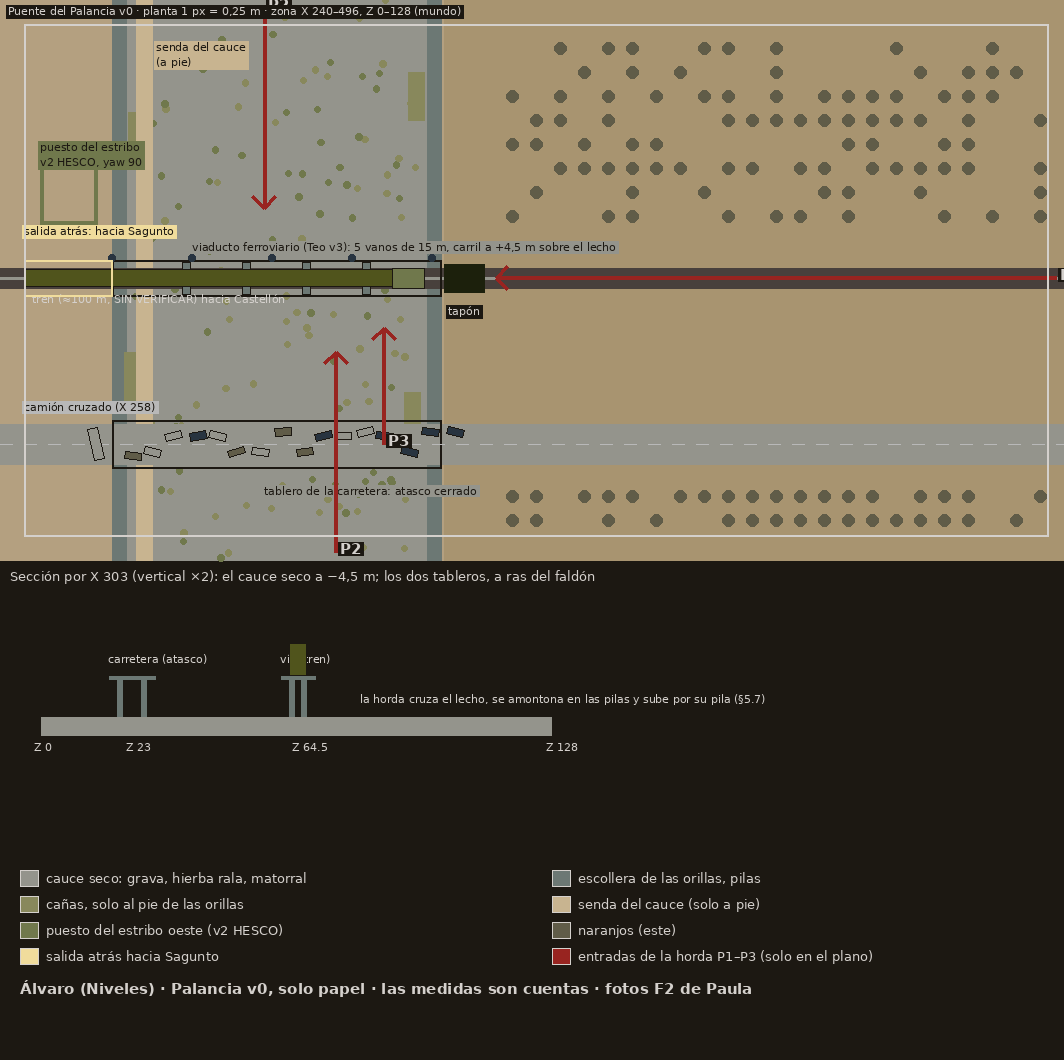
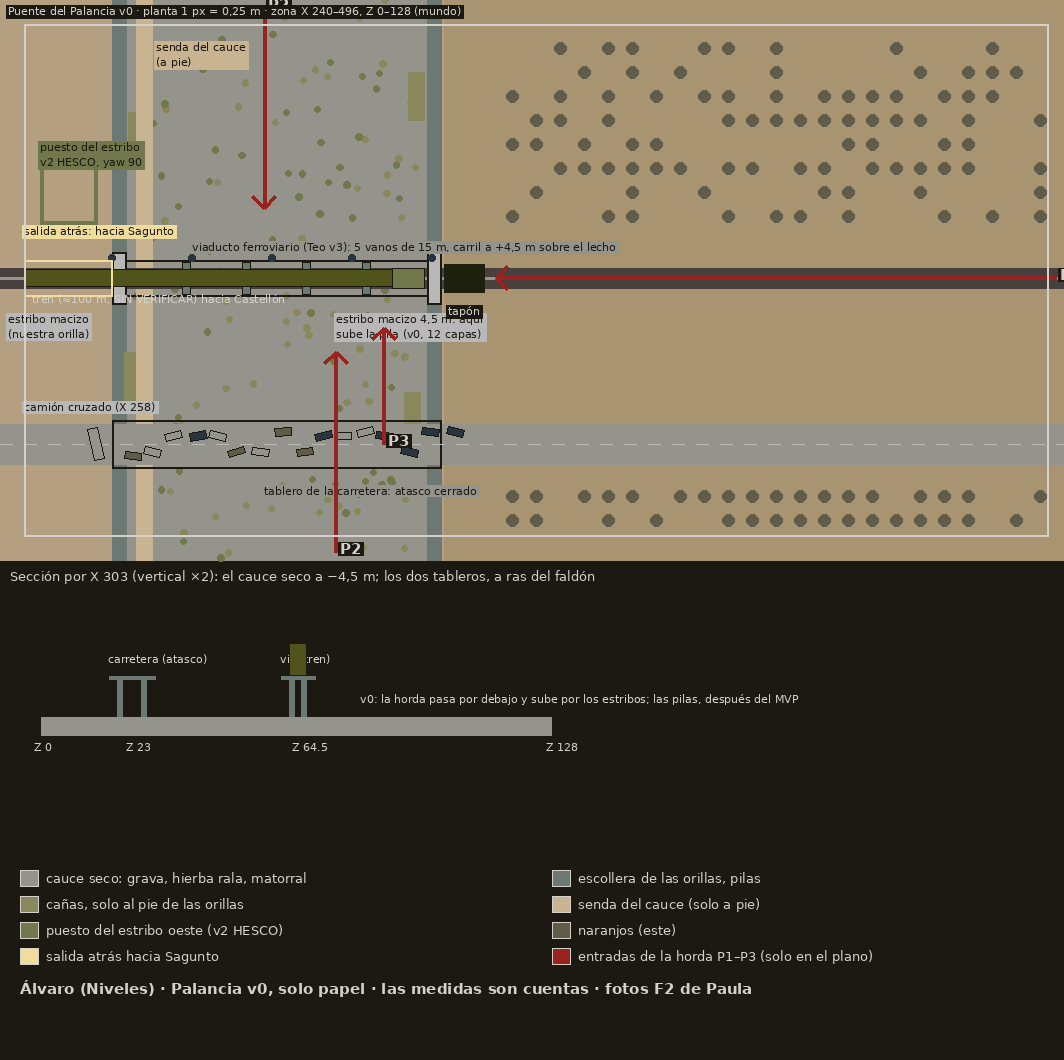
Niveles: Palancia v0 con estribos macizos y Nules v0
Claude-Session: https://claude.ai/code/session_01A4RyjScdBuNc7GbjKkppYP

diff --git a/docs/niveles/herramientas/plano_nules_v0.py b/docs/niveles/herramientas/plano_nules_v0.py
@@ -1,0 +1,62 @@
+# Plano v0 de Nules (Álvaro, 7-nov): emplazamiento fundable (D-N18, D-N49). Coordenadas locales de la zona 256 × 128 m, vía en Z 64,5.
+import numpy as np, random
+from PIL import Image, ImageDraw, ImageFont
+S=4; X0,X1,Z0,Z1=-6,262,-6,134
+W=(X1-X0)*S; H=(Z1-Z0)*S; LEG=230
+im=Image.new("RGB",(W,H+LEG),"#1c1812"); d=ImageDraw.Draw(im)
+Fp="/usr/share/fonts/truetype/dejavu/DejaVuSans.ttf"; Fb="/usr/share/fonts/truetype/dejavu/DejaVuSans-Bold.ttf"
+F=ImageFont.truetype(Fp,13); FS=ImageFont.truetype(Fp,11); FB=ImageFont.truetype(Fb,15)
+def P(x,z): return ((x-X0)*S,(Z1-z)*S)
+def R(x0,z0,x1,z1,fill=None,outline=None,w=1): d.rectangle([P(x0,z1),P(x1,z0)],fill=fill,outline=outline,width=w)
+def L(pts,c,w=2): d.line([P(*p) for p in pts],fill=c,width=w)
+def T(x,z,s,c="#1c1812",f=None,bg=None):
+    f=f or F; p=P(x,z)
+    if bg: bb=d.multiline_textbbox(p,s,font=f); d.rectangle([bb[0]-2,bb[1]-1,bb[2]+2,bb[3]+1],fill=bg)
+    d.multiline_text(p,s,fill=c,font=f)
+random.seed(11)
+R(X0,Z0,X1,Z1,fill="#a89470")
+# naranjal en hileras (víveres), con calles de riego
+def naranjal(x0,z0,x1,z1):
+    for x in np.arange(x0,x1,5):
+        for z in np.arange(z0,z1,5):
+            if random.random()<0.9: d.ellipse([P(x-1.6,z+1.6),P(x+1.6,z-1.6)],fill="#605c48")
+naranjal(4,92,250,126); naranjal(4,4,70,50); naranjal(186,4,252,50)
+L([(X0,100),(X1,100)],"#506878",3); T(150,105,"acequia (agua de riego)","#d4d0cc",FS,"#1c1812")
+R(196,96,204,104,fill="#a86c50",outline="#1c1812"); T(205,96,"caseta del pozo y motor de riego","#1c1812",FS,"#c4ac84")
+# vía, andén, edificio de viajeros abandonado
+R(X0,62,X1,67,fill="#48403c"); L([(X0,64.5),(X1,64.5)],"#94948c",3)
+for x in range(0,257,40): d.ellipse([P(x-0.8,70.3),P(x+0.8,68.7)],fill="#283440")
+R(100,67.5,160,71.5,fill="#94948c",outline="#1c1812"); T(101,73,"andén 60 m","#1c1812",FS,"#94948c")
+R(121,74,139,82,fill="#b4a080",outline="#1c1812"); T(122,81,"Viajeros\n(abandonado)","#1c1812",FS)
+# cruce de caminos: camino de la Vilavella (N) y avenida de la Estación (S), paso a nivel en X 80
+R(76,Z0,84,Z1,fill="#94948c"); T(86,126,"camino de la Vilavella (N)","#1c1812",FS,"#94948c"); T(86,2,"avenida de la Estación → Nules (S)","#1c1812",FS,"#94948c")
+R(75,60,85,69,outline="#d4d0cc",w=2); T(56,56,"paso a nivel\n(sin barreras)","#1c1812",FS,"#d4d0cc")
+R(84,28,160,34,fill="#c8b490"); T(100,26,"ramal de la cooperativa","#1c1812",FS,"#c8b490")
+# cooperativa citrícola (almacén de naranjas con muelle)
+R(140,34,176,52,fill="#a86c50",outline="#1c1812"); R(140,52,176,55,fill="#94948c"); T(142,48,"Cooperativa citrícola\n(víveres)","#1c1812",FS)
+# trazado sugerido de 150 m de HESCO (44 × 31 m) a ≤ 60 m del andén, con dos puertas de vía y una de vehículos
+R(108,56,152,87,outline="#70784c",w=6)
+L([(108,62),(108,67)],"#7c3c18",7); L([(152,62),(152,67)],"#7c3c18",7); L([(126,56),(134,56)],"#f0dc9c",6)
+T(153,90,"trazado sugerido: 150 m de HESCO\n(44 × 31 m), puertas de vía O/E\ny de vehículos al sur","#1c1812",FS,"#70784c")
+d.ellipse([P(130-60,69.5+60),P(130+60,69.5-60)],outline="#d4d0cc",width=1); T(185,123,"60 m del centro del andén (D-N44)","#d4d0cc",FS,"#1c1812")
+# tren al fundar
+R(96,62.6,166,66.4,fill="#50541c",outline="#1c1812"); T(98,61,"tren de fundación: 30 u y 12 personas","#d4d0cc",FS)
+# sitios
+def sitio(x,z,n,txt,dx,dz):
+    d.ellipse([P(x-3.2,z+3.2),P(x+3.2,z-3.2)],outline="#d4d0cc",width=3); T(x-2.4,z+2.2,n,"#d4d0cc",FB); T(x+dx,z+dz,txt,"#d4d0cc",F,"#1c1812")
+sitio(130,78,"N1","N1 Estación (130; 78)",-14,14); sitio(158,44,"N2","N2 Cooperativa (158; 44)",4,-2); sitio(80,64.5,"N3","N3 Paso a nivel (80; 64,5)",-62,-8)
+def flecha(x0,z0,x1,z1,lab):
+    L([(x0,z0),(x1,z1)],"#982420",4); a=np.arctan2(z1-z0,x1-x0)
+    for s in (2.6,-2.6): L([(x1,z1),(x1-4*np.cos(a+s*0.3),z1-4*np.sin(a+s*0.3))],"#982420",4)
+    T(x0+1,z0+3,lab,"#d4d0cc",FB,"#1c1812")
+flecha(-4,64.5,40,64.5,"Na"); flecha(260,64.5,215,64.5,"Nb"); flecha(40,131,40,95,"Nc"); flecha(230,131,230,95,"Nc"); flecha(110,-4,110,22,"Nd")
+R(0,0,256,128,outline="#d4d0cc",w=2)
+T(-4,133,"Nules v0 · planta 4 px/m · zona local 256 × 128 m · solo papel","#d4d0cc",FS,"#1c1812")
+ly=H+10
+items=[("#605c48","naranjal (la producción de víveres)"),("#506878","acequia y pozo: el agua que hace fundable el sitio"),("#94948c","caminos asfaltados y andén"),("#c8b490","ramal de tierra a la cooperativa"),("#70784c","trazado sugerido de HESCO (no se construye solo)"),("#f0dc9c","puerta de vehículos del trazado"),("#7c3c18","puertas de vía del trazado"),("#982420","entradas de la horda Na–Nd (solo en el plano)")]
+for i,(c,t) in enumerate(items):
+    x=20+(i%2)*W//2; y=ly+(i//2)*26
+    d.rectangle([x,y,x+18,y+16],fill=c,outline="#d4d0cc"); d.text((x+26,y),t,fill="#d4d0cc",font=F)
+d.text((20,ly+112),"Álvaro (Niveles) · Nules v0 · sin fotos de Nules todavía: geografía genérica de la Plana, SIN VERIFICAR",fill="#d4d0cc",font=FB)
+d.text((20,ly+138),"Llano, agua y cruce de caminos: las tres razones del §9b del GDD para que un emplazamiento sea fundable, dibujadas en el sitio.",fill="#d4d0cc",font=F)
+im.save("/mnt/project-files/docs/niveles/nules_plano_v0.png"); print(im.size)

diff --git a/docs/niveles/herramientas/plano_palancia_v0.py b/docs/niveles/herramientas/plano_palancia_v0.py
@@ -40,6 +40,9 @@ R(268,Z0,272,Z1,fill="#c8b490"); T(273,124,"senda del cauce\n(a pie)","#1c1812",
 L([(X0,64.5),(X1,64.5)],"#94948c",3); R(X0,62,X1,67,fill="#48403c"); L([(X0,64.5),(X1,64.5)],"#94948c",3)
 R(262,60,344.4,69,outline="#1c1812",w=2)
 for x in (280.6,295.6,310.6,325.6): R(x-1,60.5,x+1,68.5,fill="#6c7874",outline="#1c1812")
+for x0 in (262,340.8): R(x0,58,x0+3.6,71,fill="#b8b8b8",outline="#1c1812",w=2)
+T(318,56,"estribo macizo 4,5 m: aquí\nsube la pila (v0, 12 capas)","#1c1812",FS,"#b8b8b8")
+T(236,56,"estribo macizo\n(nuestra orilla)","#1c1812",FS,"#b8b8b8")
 T(282,74,"viaducto ferroviario (Teo v3): 5 vanos de 15 m, carril a +4,5 m sobre el lecho","#1c1812",FS,"#94948c")
 for x in range(262,346,20): d.ellipse([P(x-0.8,70.3),P(x+0.8,68.7)],fill="#283440")   # postes de catenaria
 # carretera vieja y su tablero paralelo (Z 23), atasco y camión cruzado
@@ -74,7 +77,7 @@ for z0,z1,lab in ((17,29,"carretera (atasco)"),(60,69,"vía (tren)")):
     d.rectangle([Q(z0,0.6),Q(z1,0)],fill="#6c7874",outline="#1c1812"); p=Q(z0,3.5); d.text(p,lab,fill="#d4d0cc",font=FS)
 d.rectangle([Q(62.3,4.6),Q(66.7,0.6)],fill="#50541c",outline="#1c1812")
 for z in (20,26,63,66): d.rectangle([Q(z-0.7,0),Q(z+0.7,-4.5)],fill="#6c7874")
-d.text(Q(80,-1.5),"la horda cruza el lecho, se amontona en las pilas y sube por su pila (§5.7)",fill="#d4d0cc",font=FS)
+d.text(Q(80,-1.5),"v0: la horda pasa por debajo y sube por los estribos; las pilas, después del MVP",fill="#d4d0cc",font=FS)
 for z in (0,23,64.5,128): p=Q(z,-7); d.text((p[0]-6,p[1]+4),f"Z {z}",fill="#d4d0cc",font=FS)
 ly=H+SEC+10
 items=[("#94948c","cauce seco: grava, hierba rala, matorral"),("#6c7874","escollera de las orillas, pilas"),("#88885c","cañas, solo al pie de las orillas"),("#c8b490","senda del cauce (solo a pie)"),("#70784c","puesto del estribo oeste (v2 HESCO)"),("#605c48","naranjos (este)"),("#f0dc9c","salida atrás hacia Sagunto"),("#982420","entradas de la horda P1–P3 (solo en el plano)")]

diff --git a/docs/niveles/nules-nivel.md b/docs/niveles/nules-nivel.md
@@ -1,0 +1,51 @@
+# Nules · emplazamiento fundable v0 (Álvaro, 7-nov, solo papel)
+
+Es el único emplazamiento fundable de la demo (D-N18, D-N49; `diseno-hito5.md` §4). Se funda el día 3 con un tren parado que lleve 30 u y 12 personas, sin horda encima (densidad < 500), y produce víveres de la huerta. Uso la plantilla del desmonte: cada cosa tiene que tener una razón de estar ahí. Plano: `nules_plano_v0.png`; script: `herramientas/plano_nules_v0.py`; dato: `mapa_nules_carreteras_v0.json`. Para después del MVP, sin código.
+
+## 0. Conclusión
+El GDD (§9b) dice que los emplazamientos se eligen por **terreno llano, agua y cruce de caminos**. Nules v0 dibuja esas tres razones en el sitio:
+- la huerta llana de naranjos de la Plana;
+- una acequia con su pozo y su motor de riego;
+- el cruce del camino de la Vilavella con la avenida de la Estación, en un paso a nivel.
+
+Además, lo que produce tiene edificio: la **cooperativa citrícola** junto a la vía. Lo que se funda es la estación vieja, que está abandonada. Por eso el jugador no empieza de cero: hay andén y un edificio que sirve de primer refugio para las 12 personas.
+
+**Aviso de realidad:** Nules sí tiene estación real en la línea de la costa (Nules–La Vilavella, SIN VERIFICAR con fuente). En el juego se lee como «estación abandonada que se vuelve a abrir», no como un descampado. Paula todavía no tiene fotos de Nules, así que la disposición es genérica de la Plana y va **SIN VERIFICAR** entera.
+
+## 1. Disposición (coordenadas locales de la zona, 256 × 128 m, vía en Z 64,5)
+| Elemento | Dónde | Por qué existe | Qué hace en el juego |
+|---|---|---|---|
+| **Andén de 60 m** | X 100–160, Z 67,5–71,5 | La estación vieja | Donde para el tren de fundación (`fundar_radio_tren_mm` 5000). Es el centro de los 60 m que cuentan para la fortificación (D-N44) |
+| **Edificio de viajeros abandonado** | X 121–139, Z 74–82 | La estación vieja | Primer refugio. Sitio N1 |
+| **Cooperativa citrícola** con muelle a la vía | X 140–176, Z 34–55 | En la Plana, las cooperativas se pusieron junto a la vía para cargar la naranja | **La producción de víveres.** Sitio N2, a unos 40 m del centro del andén: entra en el perímetro de 60 m |
+| **Naranjal en hileras** cada 5 m | Norte (Z 92–126) y esquinas del sur | La huerta | Lo que se protege. Tapa la vista: la horda Nc sale de entre los árboles a menos de 30 m |
+| **Acequia y pozo con motor** | Acequia en Z 100; caseta en X 196–204 | El agua que hace fundable el sitio | Línea de lectura de noche y punto de referencia. Más adelante podría ser un objetivo (sin agua, no hay víveres) |
+| **Camino de la Vilavella y avenida de la Estación** | X 76–84, de norte a sur | El cruce de caminos | Acceso de los vehículos (D-N96) y entrada Nd desde el pueblo |
+| **Paso a nivel sin barreras** | (80; 64,5) | Lo abandonaron cuando se cerró la estación | Sitio N3: el único sitio por donde un vehículo cruza la vía |
+| **Ramal de tierra a la cooperativa** | Z 28–34, de X 84 a 160 | Para los camiones de la naranja | Habilitado: lleva los vehículos a N2 |
+
+## 2. Fortificación sugerida (lo construye el jugador; el plano solo lo propone)
+- **Trazado de 150 m de HESCO**, 44 × 31 m (X 108–152, Z 56–87), alrededor del andén y del edificio de viajeros. Es la cifra del ejemplo de la D-N44 (150 m de HESCO, una puerta, dos nidos y tres focos: 118 u). Todo queda a 60 m o menos del centro del andén.
+- Al cruzar la vía, el recinto necesita **dos puertas de vía** (oeste y este), igual que el de Sagunto, además de **una puerta de vehículos** al sur, hacia el ramal y la cooperativa. Son dos puertas más que en el ejemplo de la D-N44 (+12 u si cuestan 6 cada una). **Hugo** tiene que decir si el nivel de estación sigue saliendo el día que toca.
+- La cooperativa queda **fuera del recinto**, a 15 m de la puerta de vehículos. Es a propósito: es lo que la horda ataca y obliga a elegir entre ampliar el muro o defenderla con un puesto. Es un frente del mundo persistente (D-N96) desde el primer día.
+
+## 3. Sitios del mapa de frentes
+- **N1 Estación** (130; 78): el recinto.
+- **N2 Cooperativa** (158; 44): la producción. Puesto v2 opcional.
+- **N3 Paso a nivel** (80; 64,5): el cruce. Si cae, los vehículos se quedan a un lado de la vía.
+
+## 4. Entradas de la horda
+- **Na / Nb**: por la vía, desde Almenara (oeste) y desde Castellón (este).
+- **Nc**: desde el naranjal del norte, a corta distancia y sin verse.
+- **Nd**: por la avenida, desde el pueblo (sur). Es la entrada de los asedios grandes, porque el pueblo es donde estaba la gente.
+
+## 5. Vehículos (D-N96)
+Los vehículos llegan en el tren (D-N18: el blindado viaja en el tren y se despliega). Desde el andén salen por la puerta de vehículos al ramal. **Habilitados**: la avenida (de Z 0 al paso a nivel), el camino de la Vilavella (del paso a nivel a Z 128) y el ramal de la cooperativa.
+
+## 6. Pendiente
+- **Paula**: fotos de la estación de Nules–La Vilavella, de una cooperativa citrícola de la Plana con muelle de vía, de una acequia y de una caseta de pozo con motor.
+- **Teo** (5 variantes cada una): cooperativa (nave de ladrillo, nave de bloque con cubierta de fibrocemento, nave con marquesina, nave con torre de oficinas y nave quemada), caseta de pozo y acequia (como franja del mapa de zonas). El almacén de naranjas de Sagunto (F4) sirve de base.
+- **Hugo**: el coste de las dos puertas de vía y si el día de nivel de estación se mueve.
+- **FPS**: unos 500 naranjos. Es la zona más cara de vegetación, y hay que medirla (D-N70). Si no da, el naranjal se pinta en el mapa de zonas y solo las hileras cercanas son 3D.
+
+— Álvaro (Niveles) · [retrato](/mnt/project-files/equipo/retrato_alvaro_64_x4.png)

diff --git a/docs/niveles/palancia-nivel.md b/docs/niveles/palancia-nivel.md
@@ -9,6 +9,13 @@ Propongo dos tipos de puente:
 - **Puente alto** (el §8.3, tal cual): Jiloca y Mijares si las fotos lo confirman.
 - **Puente bajo sobre rambla** (este): la horda no llega solo por los extremos, **cruza el lecho, se amontona contra las pilas y sube al tablero por su propia pila de cuerpos** (§5.7). El lecho es un campo de tiro de 75 m de ancho y el tablero es un muro de 4,5 m. Es otra forma de jugar y sale de la foto.
 
+## 0b. Ajuste del v0 (Mak, 7-nov, a propuesta de Nacho): estribos macizos, sin código nuevo
+En la zona, un obstáculo es un segmento con altura y macizo hasta el suelo: no existe el «hueco por debajo». Una pila contra un pilar no sube al tablero; se queda debajo. Por eso, **en el v0 la horda sube por los estribos y no por las pilas**:
+- **Estribos oeste (X 262–265,6) y este (X 340,8–344,4)**, de 4,5 m y macizos, con sus aletas hasta la escollera (unos Z 58–71, 13 m de cara). Son obstáculos de la zona como el muro. La pila sube 0,35 m por capa y se trepa a la altura del obstáculo menos 0,6 m (StepUp), así que hacen falta **unas 12 capas** (cuenta de Nacho; los cuerpos que cuesta, sin medir). Una vez arriba, la horda sale a la vía en la cabeza del puente.
+- **El lecho queda libre por debajo del tablero.** Las pilas son decorado sin colisión de pila, y la horda cruza el cauce de lado a lado para llegar a los estribos.
+- **Cómo se juega:** el estribo este está pegado a la locomotora y al tapón, así que P2 y P1 se juntan ahí, que es lo peligroso. El estribo oeste está en nuestra orilla, bajo el puesto del estribo, que tira de cerca contra la pila. Los 75 m del lecho siguen siendo el campo de tiro.
+- **Después del MVP** (si Mak lo pide, Nacho calcula medio día de código y pruebas, más lo de Marcos en la zona): un tablero elevado con suelo a 4,5 m que no tape el lecho, y un enlace de subida en cada pila que se active cuando la pila llegue a la altura del tablero. Entonces vuelven las cuatro pilas como rampas, tal como dice el §0.
+
 ## 1. Dónde está: coordenadas del mundo
 Con el mundo persistente (D-N91, D-N96) no hay pantallas, así que la zona se dibuja **en coordenadas del mundo**, justo al este de la de Sagunto: **X 240–496, Z 0–128**. Se solapa 16 m con Sagunto (X 240–256: el final del atasco), y así la emboscada y la estación son el mismo lugar. Todo lo que ya existe se mantiene:
 - Viaducto de Teo v3, centrado en **X 302,6**, con estribos en X 262–265,6 y 340,8–344,4 y el **cauce de X 265,6 a 340,8, con el lecho a −4,5 m** (§7d de sagunto-nivel.md).
@@ -20,7 +27,8 @@ Con el mundo persistente (D-N91, D-N96) no hay pantallas, así que la zona se di
 |---|---|---|---|
 | **Cauce seco** (grava, hierba rala, matorral suelto; cañas solo al pie de las orillas, F2_3) | X 265,6–340,8, en toda la Z | El Palancia en Sagunto lleva agua muy pocas veces | Campo de tiro abierto. P2 entra por aquí desde el norte (el pueblo, aguas arriba) y desde el sur (el mar) |
 | **Escollera de las orillas** | 3,6 m a cada lado | Defensa contra las avenidas (foto F2_3) | Talud corto. Quien cae del tablero no muere: se queda en el lecho y vuelve a la pila |
-| **Pilas del viaducto** | X 280,6 / 295,6 / 310,6 / 325,6 | Vanos de 15 m (Teo v3) | **Donde se amontona la horda.** Cada pila es una rampa de cuerpos posible: cuatro sitios por los que puede subir |
+| **Pilas del viaducto** | X 280,6 / 295,6 / 310,6 / 325,6 | Vanos de 15 m (Teo v3) | En el v0, decorado: la horda pasa por debajo (0b). Después del MVP, cuatro rampas de cuerpos |
+| **Estribos macizos** | X 262–265,6 y 340,8–344,4 | Los extremos del viaducto, contra el terreno | **Donde se amontona y sube la horda en el v0** (12 capas, 0b) |
 | **Senda del cauce** | X 268–272, de norte a sur | El paseo del río, que pasa por debajo del puente (foto F2_1) | Solo a pie. Por aquí el pelotón baja al lecho desde el estribo oeste, si se atreve |
 | **Tablero de la carretera con el atasco** | Z 17–29 | Ya estaba en Sagunto: la gente intentó huir hacia Castellón | **P3: los del atasco.** Salen de los coches a 41 m del tren. Además explica que **los vehículos no puedan cruzar**: la carretera está muerta y no hay otra |
 | **Puesto del estribo** (v2 HESCO, yaw 90) | X 244–258,3, Z 78–94,4 | Es el lado propio del río, a 50 m del puesto F3 de Sagunto | Tira sobre el lecho y sobre la cabeza del tren. Desde el estribo oeste se puede desplegar; en el tablero, no (§8.3) |
@@ -41,7 +49,7 @@ Con el mundo persistente (D-N91, D-N96) no hay pantallas, así que la zona se di
 **Ninguno llega a esta zona en la v0.** La carretera vieja está cerrada en K1 y el tablero de la carretera tiene el atasco. Es coherente y aprieta la lectura del §8.3: «si se acaba la munición, no hay adónde ir». Se abre más adelante con una obra de despeje del atasco (como en H5 §3, la obra es una batalla), y entonces `carretera_vieja_este` pasa a habilitada en el dato.
 
 ## 6. Cosas que dependen de otros
-- **Nacho**: cuántos cuerpos hacen falta en la pila para subir 4,5 m (§5.7) y que una pila pueda hacerse **contra una pila de puente** y no solo contra un muro. Si no se puede, el tipo «puente bajo» no funciona y vuelvo al §8.3 con el tablero más alto (que contradice la foto).
+- **Nacho**: respondido (0b). En el v0, estribos macizos; el tablero elevado queda para después del MVP. Falta medir cuántos cuerpos cuestan las 12 capas.
 - **Lucía**: el lecho de noche (grava 94948c con luna 0,45) tiene que dejar la horda en su banda L* 9–13 con contraste. Con muestra.
 - **Teo**: nada nuevo. El viaducto v3, el tablero de la carretera, los coches y el puesto v2 ya existen. Solo falta la senda del cauce como franja del mapa de zonas.
 - **Paula**: el estribo este y la huerta de detrás (las fotos F2 son desde el oeste).
